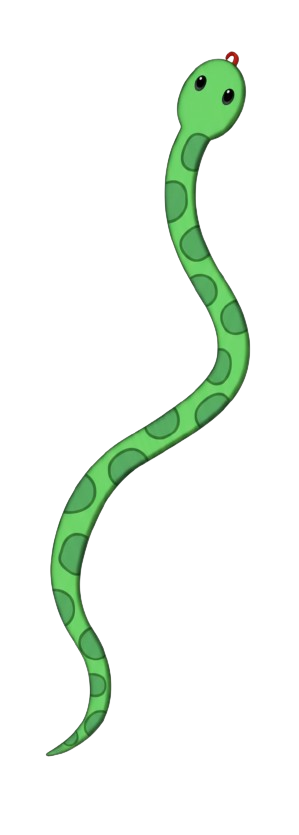
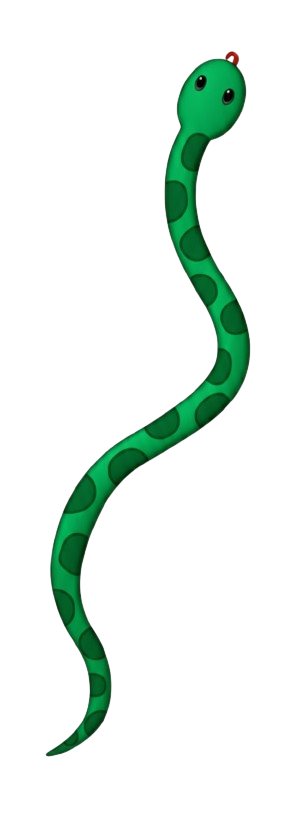
Add snake and ladder feature

Changed region(s): [[0.1505, 0.0623, 0.8428, 0.903]]

diff --git a/src/components/snakeladder/BoardSquare.jsx b/src/components/snakeladder/BoardSquare.jsx
@@ -3,9 +3,7 @@ import React, { memo, useMemo } from 'react'
 import Pile from '../Pile'
 import { RFValue } from 'react-native-responsive-fontsize'
 
-// Import snake, ladder and flag images
-import SnakeImage from '../../assets/images/snakeladder/snake.png'
-import LadderImage from '../../assets/images/snakeladder/ladder.png'
+// Import flag image
 import FlagImage from '../../assets/images/snakeladder/flag.png'
 
 const BoardSquare = ({ 
@@ -16,7 +14,7 @@ const BoardSquare = ({
   isSnakeHead, 
   isLadderBottom,
   onPress,
-  showImages = true  // New prop to control image display
+  showImages = true 
 }) => {
 
   const squareColor = useMemo(() => {
@@ -27,24 +25,6 @@ const BoardSquare = ({
 
   return (
     <View style={[styles.container, { backgroundColor: squareColor }]}>
-      {/* Snake image overlay for snake head squares - only if showImages is true */}
-      {showImages && isSnakeHead && (
-        <Image 
-          source={SnakeImage}
-          style={styles.snakeImage}
-          resizeMode="contain"
-        />
-      )}
-      
-      {/* Ladder image overlay for ladder bottom squares - only if showImages is true */}
-      {showImages && isLadderBottom && (
-        <Image 
-          source={LadderImage}
-          style={styles.ladderImage}
-          resizeMode="contain"
-        />
-      )}
-
       {/* Flag image for square 100 (finish line) */}
       {number === 100 && (
         <Image 
@@ -119,20 +99,6 @@ const styles = StyleSheet.create({
     width: RFValue(35),
     height: RFValue(35),
     zIndex: 10,
-  },
-  snakeImage: {
-    position: 'absolute',
-    width: '100%',
-    height: '100%',
-    zIndex: 1,
-    opacity: 0.8,
-  },
-  ladderImage: {
-    position: 'absolute',
-    width: '100%',
-    height: '100%',
-    zIndex: 1,
-    opacity: 0.8,
   },
   pieceContainer: {
     position: 'absolute',

diff --git a/src/screens/GameSelectionScreen.jsx b/src/screens/GameSelectionScreen.jsx
@@ -1,5 +1,5 @@
 import { StyleSheet, Text, View, Image, Pressable } from 'react-native';
-import React, { useCallback } from 'react';
+import React, { useCallback, useEffect } from 'react';
 import Wrapper from '../components/Wrapper';
 import { deviceHeight, deviceWidth } from '../constants/Scaling';
 import GradientButton from '../components/GradientButton';
@@ -8,8 +8,11 @@ import { playSound } from '../helpers/SoundUtility';
 import Logo from '../assets/images/logo.png';
 import LottieView from 'lottie-react-native';
 import LottieAnimation from '../assets/animation/lottie.json';
+import { useIsFocused } from '@react-navigation/native'
 
 const GameSelectionScreen = () => {
+
+  const isFocused = useIsFocused();
 
   const handleLudoPress = useCallback(() => {
     playSound('ui');
@@ -20,6 +23,12 @@ const GameSelectionScreen = () => {
     playSound('ui');
     navigate('SnakeLadder');
   }, []);
+
+  useEffect(() => {
+    if(isFocused){
+      playSound('home', true);
+    }
+  }, [isFocused]);
 
   return (
     <Wrapper style={styles.container}>
@@ -72,7 +81,7 @@ const styles = StyleSheet.create({
   container: {
     flex: 1,
     justifyContent: 'space-between', // ensures footer stays bottom
-    paddingVertical: 20,
+    paddingVertical: 10,
   },
   content: {
     alignItems: 'center',
@@ -100,7 +109,7 @@ const styles = StyleSheet.create({
   },
   lottieContainer: {
     position: 'absolute',
-    bottom: deviceHeight * 0.12,
+    bottom: deviceHeight * 0.07,
     alignItems: 'center',
     zIndex: -1,
   },
@@ -111,7 +120,7 @@ const styles = StyleSheet.create({
   footerText: {
     textAlign: 'center',
     color: 'rgba(255, 255, 255, 0.7)',
-    fontSize: 14,
+    fontSize: 12,
     fontStyle: 'italic',
     fontWeight: 'bold',
   },

diff --git a/src/screens/ludo/HomeScreen.jsx b/src/screens/ludo/HomeScreen.jsx
@@ -1,4 +1,4 @@
-import { StyleSheet, Text, View, Image, Alert, Animated, Pressable } from 'react-native'
+import { StyleSheet, View, Image, Alert, Animated, Pressable } from 'react-native'
 import React, { useCallback, useEffect, useRef } from 'react'
 import Wrapper from '../../components/Wrapper'
 import Logo from '../../assets/images/logo.png'
@@ -153,7 +153,6 @@ const HomeScreen = () => {
         </Pressable>
       </Animated.View>
 
-      <Text style={styles.artist}>Designed by - Ananta</Text>
     </Wrapper>
   )
 }
@@ -164,7 +163,7 @@ const styles = StyleSheet.create({
     mainContainer:{
         flex: 1,
         justifyContent: 'space-between',
-        paddingVertical: 15,
+        paddingVertical: 5,
     },
     imgContainer:{
         width: deviceWidth * 0.6,
@@ -183,25 +182,17 @@ const styles = StyleSheet.create({
     buttonsContainer: {
         flex: 1,
         alignItems: 'center',
-        paddingHorizontal: 20,
         gap: 12,
-    },
-    artist: {
-        alignSelf: 'center',
-        color: 'white',
-        fontWeight: 'bold',
-        opacity: 0.7,
-        fontStyle: 'italic'
     },
     witchContainer:{
         position: 'absolute',
-        bottom: deviceHeight * 0.08,
+        bottom: deviceHeight * 0.05,
         alignItems: 'center',
         zIndex: -1,
     },
     witch:{
-        height: Math.min(250, deviceHeight * 0.25),
-        width: Math.min(250, deviceHeight * 0.25),
+        height: deviceHeight * 0.25,
+        width: deviceHeight * 0.25,
         transform: [{rotate: '25deg'}]
     }
 })

diff --git a/src/components/WinModal.jsx b/src/components/WinModal.jsx
@@ -14,6 +14,7 @@ import GradientButton from './GradientButton';
 import HeartGirl from '../assets/animation/girl.json';
 import Pile from './Pile';
 import { colorPlayer } from '../helpers/PlotData';
+import { deviceHeight, deviceWidth } from '../constants/Scaling';
 
 
 const WinModal = ({ winner }) => {
@@ -107,7 +108,7 @@ export default WinModal;
 const styles = StyleSheet.create({
   gradientContainer: {
     borderRadius: 20,
-    padding: 20,
+    padding: 10,
     alignItems: 'center',
     justifyContent: 'center',
     width: '96%',
@@ -134,21 +135,20 @@ const styles = StyleSheet.create({
   },
   congratsText: {
     fontSize: 18,
-    color: 'white',
+    color: 'yellow',
     fontFamily: 'philosopher-Bold',
     marginTop: 10,
   },
   trophyAnimation: {
     height: 200,
     width: 200,
-    marginTop: 20,
+    marginTop: 10,
   },
   fireworkAnimation: {
-    height: 200,
-    width: 500,
+    height: deviceHeight * 0.4,
+    width: deviceWidth,
     position: 'absolute',
-    zIndex: -5,
-    marginTop: 20,
+    zIndex: 20,
     pointerEvents: 'none',
   },
   girlAnimation: {

diff --git a/src/screens/ludo/LudoBoardScreen.jsx b/src/screens/ludo/LudoBoardScreen.jsx
@@ -159,8 +159,7 @@ const styles = StyleSheet.create({
   ludoBoard: {
     height: '100%',
     width: '100%',
-    // resizeMode: 'contain',
-    padding: 10,
+    paddingVertical: 10,
     alignSelf: 'center',
   },
   menuIcon: {
@@ -169,8 +168,8 @@ const styles = StyleSheet.create({
     left: 24,
   },
   menuIconImage: {
-    width: 35,
-    height: 35,
+    width: 30,
+    height: 30,
   },
   startImage: {
     position: 'absolute',
@@ -179,7 +178,7 @@ const styles = StyleSheet.create({
     flexDirection: 'row',
     justifyContent: 'space-between',
     alignItems: 'center',
-    paddingHorizontal: 20,
+    paddingHorizontal: 5,
   },
   plotContainer: {
     flexDirection: 'row',

diff --git a/src/components/snakeladder/Board.jsx b/src/components/snakeladder/Board.jsx
@@ -13,7 +13,7 @@ import BoardSquare from './BoardSquare'
 import { deviceWidth } from '../../constants/Scaling'
 
 // Import snake and ladder images
-import SnakeImage from '../../assets/images/snakeladder/snake1.png'
+import SnakeImage from '../../assets/images/snakeladder/snake.png'
 import LadderImage from '../../assets/images/snakeladder/ladder.png'
 
 const Board = () => {
@@ -246,11 +246,11 @@ const styles = StyleSheet.create({
   snakeOverlayImage: {
     width: '100%',
     height: '100%',
-    opacity: 0.7,
+    opacity: 0.8,
   },
   ladderOverlayImage: {
     width: '100%',
     height: '100%',
-    opacity: 0.7,
+    opacity: 0.8,
   },
 })

diff --git a/src/screens/snakeladder/SnakeLadderScreen.jsx b/src/screens/snakeladder/SnakeLadderScreen.jsx
@@ -146,7 +146,7 @@ const styles = StyleSheet.create({
   },
   menuIcon: {
     position: 'absolute',
-    top: 55,
+    top: 45,
     left: 15,
     zIndex: 100,
   },
@@ -162,6 +162,6 @@ const styles = StyleSheet.create({
     justifyContent: 'space-between',
     alignItems: 'center',
     paddingHorizontal: 15,
-    height: 80, // Fixed height for dice rows
+    height: 80, 
   },
 });

diff --git a/src/redux/snakeladder/initialState.js b/src/redux/snakeladder/initialState.js
@@ -31,11 +31,11 @@ export const snakeLadderInitialState = {
   ],
   
   ladders: [
-    { bottom: 3, top: 22 },
+    { bottom: 2, top: 23 },
     { bottom: 15, top: 47 },
     { bottom: 77, top: 96 },
     { bottom: 22, top: 43 },
-    { bottom: 33, top: 51 },
+    { bottom: 32, top: 51 },
     { bottom: 87, top: 93 },
     { bottom: 67, top: 73 },
     { bottom: 17, top: 36 },
